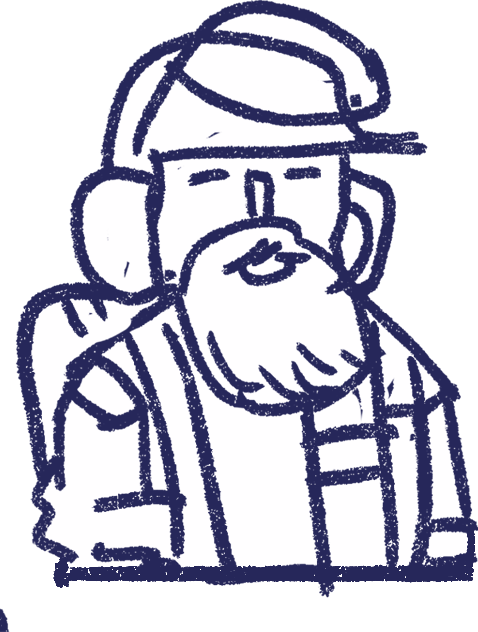
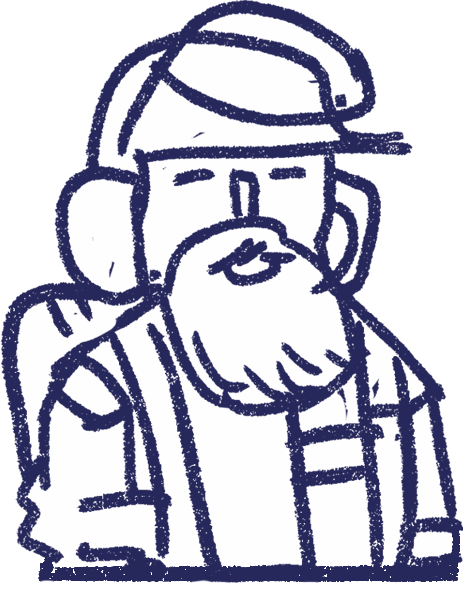
Implemented Helper

diff --git a/Assets/Scripts/UIManagers/HelperUIManager.cs b/Assets/Scripts/UIManagers/HelperUIManager.cs
@@ -1,0 +1,150 @@
+using System.Collections.Generic;
+using System;
+using System.IO;
+using Unity.VisualScripting;
+using UnityEditor;
+using UnityEngine;
+using UnityEngine.PlayerLoop;
+using UnityEngine.UIElements;
+using static UnityEngine.EventSystems.EventTrigger;
+
+public class HelperUIManager : MonoBehaviour
+{
+    [SerializeField] private UIDocument ui;
+    [SerializeField] private VisualTreeAsset helperAsset;
+    [SerializeField] private HelperData helperData;
+
+    public static event Action OnBoardingDone;
+
+    private VisualElement _backGround;
+    private VisualElement _helperContainer;
+    private VisualElement _helperProfile;
+    private VisualElement _speechBubble;
+    private VisualElement _image;
+    private Label _text;
+
+    private HelperDataEntry[] _currectHelperDataEntries;
+    private int _index = 0;
+    private bool _isOnBoarding = true;
+
+    private void OnEnable()
+    {
+        _backGround = ui.rootVisualElement.Q<VisualElement>("BackGround");
+        _helperContainer = helperAsset.Instantiate().Q<VisualElement>("HelperContainer");
+        _backGround.Add(_helperContainer);
+
+        _helperProfile = _helperContainer.Q<VisualElement>("HelperProfile");
+        _speechBubble = _helperContainer.Q<VisualElement>("SpeechBubble");
+        _image = _speechBubble.Q<VisualElement>("Image");
+        _text = _speechBubble.Q<Label>("Text");
+
+        _helperProfile.RegisterCallback<ClickEvent>(OnHelperClick);
+        _speechBubble.RegisterCallback<ClickEvent>(OnBubbleClick);
+
+        _currectHelperDataEntries = helperData.OnBoardingLines;
+        SetBubbleContent();
+
+        GameManager.RoundStarted += OnNewRoundStarted;
+        GameManager.LastDecisionMade += SetOutcomeLines;
+        WeatherMapUIManager.IndicatorClicked += SetDangerPreviewLines;
+        WeatherMapUIManager.DecisionButtonClicked += SetDecisionLines;
+        DangerPreviewUIManager.WindowClosed += SetWeatherMapLines;
+        DecisionsUIManager.WindowClosed += SetWeatherMapLines;
+    }
+
+    private void OnDisable()
+    {
+        _helperProfile.UnregisterCallback<ClickEvent>(OnHelperClick);
+        _speechBubble.UnregisterCallback<ClickEvent>(OnBubbleClick);
+
+        GameManager.RoundStarted -= OnNewRoundStarted;
+        GameManager.LastDecisionMade -= SetOutcomeLines;
+        WeatherMapUIManager.IndicatorClicked -= SetDangerPreviewLines;
+        WeatherMapUIManager.DecisionButtonClicked -= SetDecisionLines;
+        DangerPreviewUIManager.WindowClosed -= SetWeatherMapLines;
+        DecisionsUIManager.WindowClosed -= SetWeatherMapLines;
+    }
+
+    private void Update()
+    {
+        // TODO: REMOVE THIS
+        _helperContainer.BringToFront();
+    }
+
+    private void OnHelperClick(ClickEvent ev)
+    {
+        if (!_speechBubble.visible)
+        {
+            _speechBubble.visible = true;
+            SetBubbleContent();
+        }
+        else
+        {
+            HideBubble();
+        }
+    }
+
+    private void OnBubbleClick(ClickEvent ev)
+    {
+        if (_index < _currectHelperDataEntries.Length)
+        {
+            SetBubbleContent();
+        }
+        else
+        {
+            HideBubble();            
+        }
+    }
+
+    private void SetBubbleContent()
+    {
+        _text.text = _currectHelperDataEntries[_index].Text;
+        if (_currectHelperDataEntries[_index].Image != null)
+        {
+            _image.style.display = DisplayStyle.Flex;
+            _image.style.backgroundImage = new StyleBackground(_currectHelperDataEntries[_index].Image);
+
+        }
+        else
+        {
+            _image.style.display = DisplayStyle.None;
+        }
+        _index++;
+    }
+
+    private void HideBubble()
+    {
+        _speechBubble.visible = false;
+        _index = 0;
+        if(_isOnBoarding)
+        {
+            OnBoardingDone.Invoke();
+            _isOnBoarding = false;
+        }
+    }
+
+    private void OnNewRoundStarted(List<ConsequencePreview> consequences, List<DecisionData> decisions, VisualTreeAsset mapAsset)
+    {
+        SetWeatherMapLines();
+    }
+  
+    private void SetWeatherMapLines()
+    {
+        _currectHelperDataEntries = helperData.WeatherMapLines;
+    }
+
+    private void SetDangerPreviewLines(DangerLevel dangerLevel)
+    {
+        _currectHelperDataEntries = helperData.DangerPreviewLines;
+    }
+
+    private void SetDecisionLines()
+    {
+        _currectHelperDataEntries = helperData.DecisionLines;
+    }
+
+    private void SetOutcomeLines(List<OutcomeData> outcomes)
+    {
+        _currectHelperDataEntries = helperData.OutcomeLines;
+    }
+}

diff --git a/Assets/Scripts/UIManagers/DecisionsUIManager.cs b/Assets/Scripts/UIManagers/DecisionsUIManager.cs
@@ -11,6 +11,7 @@ public class DecisionsUIManager : MonoBehaviour
     [SerializeField] private VisualTreeAsset decisionEntryAsset;
 
     public static event Action<DangerLevel> DecisionMade;
+    public static event Action WindowClosed;
 
     private VisualElement _backGround;
     private VisualElement _modalContainer;
@@ -85,6 +86,7 @@ public class DecisionsUIManager : MonoBehaviour
         _decisionButtons[1].clicked -= OnMediumAlertDecisionClick;
         _decisionButtons[2].clicked -= OnLowAlertDecisionClick;
         _backGround.Remove(_modalContainer);
+        WindowClosed.Invoke();
     }
 
     private void OnHighAlertDecisionClick()

diff --git a/Assets/Scripts/HelperData.cs b/Assets/Scripts/HelperData.cs
@@ -1,0 +1,21 @@
+using System;
+using UnityEngine;
+
+[CreateAssetMenu(fileName = "HelperData", menuName = "Scriptable Objects/HelperData")]
+public class HelperData : ScriptableObject
+{
+    public HelperDataEntry[] OnBoardingLines;
+    public HelperDataEntry[] WeatherMapLines;
+    public HelperDataEntry[] DangerPreviewLines;
+    public HelperDataEntry[] DecisionLines;
+    public HelperDataEntry[] TransitionLines;
+    public HelperDataEntry[] OutcomeLines;
+    public HelperDataEntry[] FinalScreenLines;
+}
+
+[Serializable]
+public class HelperDataEntry
+{
+    public string Text;
+    public Sprite Image;
+}

diff --git a/Assets/Scripts/UIManagers/DangerPreviewUIManager.cs b/Assets/Scripts/UIManagers/DangerPreviewUIManager.cs
@@ -1,3 +1,4 @@
+using System;
 using System.Collections.Generic;
 using System.Linq;
 using UnityEngine;
@@ -13,6 +14,8 @@ public class DangerPreviewUIManager : MonoBehaviour
     private VisualElement _modalContainer;
     private Button _buttonClose;
     List<ConsequencePreview> _consequences;
+
+    public static event Action WindowClosed;
 
     private void OnEnable()
     {
@@ -60,5 +63,6 @@ public class DangerPreviewUIManager : MonoBehaviour
     {
         _buttonClose.clicked -= OnClosePreviewClick;
         _backGround.Remove(_modalContainer);
+        WindowClosed.Invoke();
     }
 }

diff --git a/Assets/Scripts/GameManager.cs b/Assets/Scripts/GameManager.cs
@@ -25,12 +25,13 @@ public class GameManager : MonoBehaviour
         _path = Path.Combine("Assets", "Levels");
         directories = Directory.GetDirectories(_path);
         DecisionsUIManager.DecisionMade += OnDecisionMade;
-        StartNewRound();
+        HelperUIManager.OnBoardingDone += StartNewRound;
     }
 
     private void OnDestroy()
     {
-        DecisionsUIManager.DecisionMade -= OnDecisionMade;        
+        DecisionsUIManager.DecisionMade -= OnDecisionMade;
+        HelperUIManager.OnBoardingDone -= StartNewRound;
     }
 
     private void StartNewRound()
